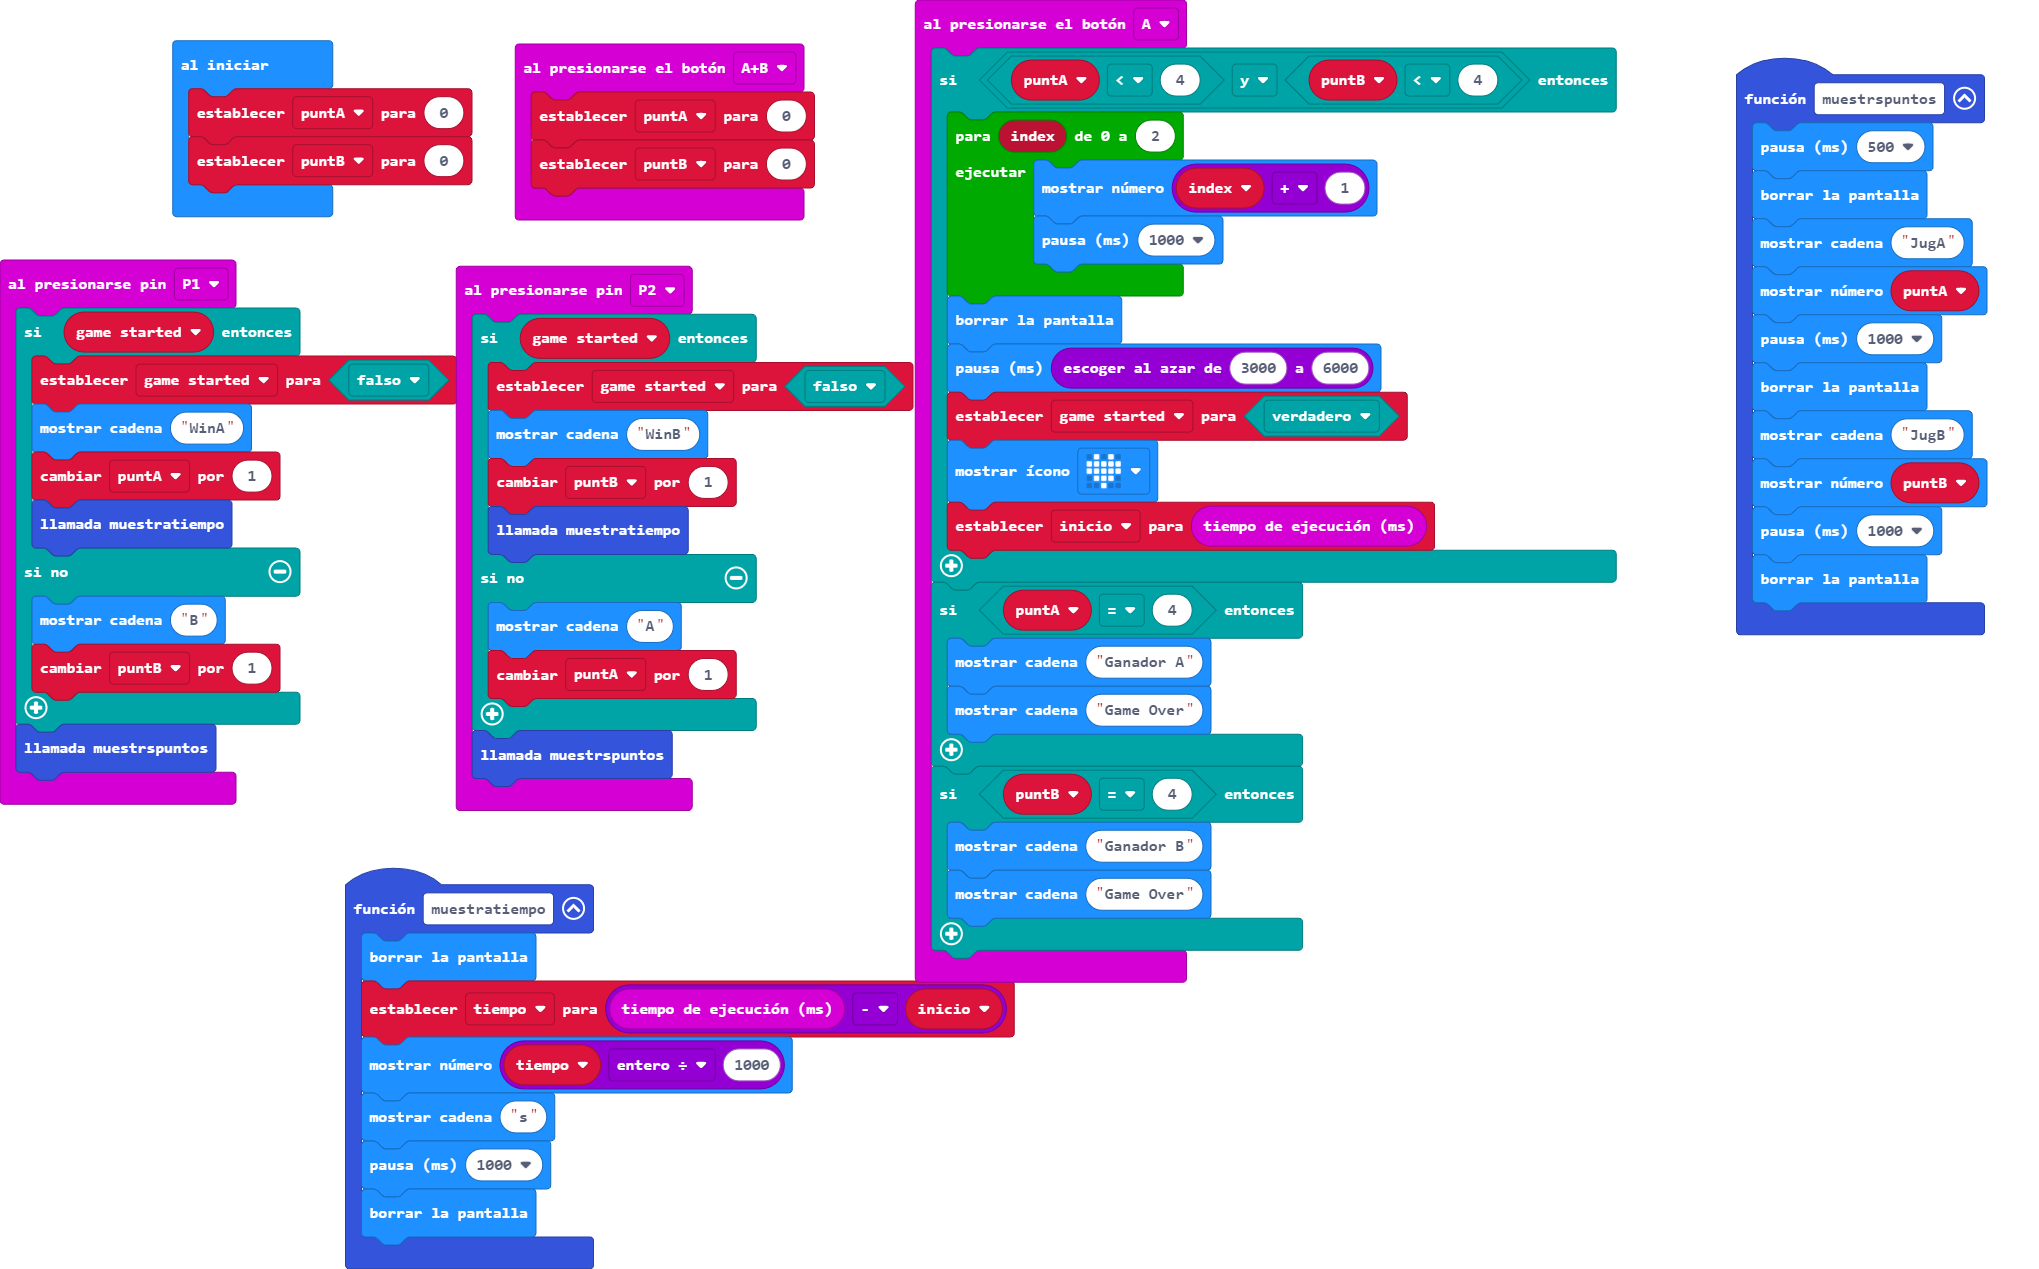
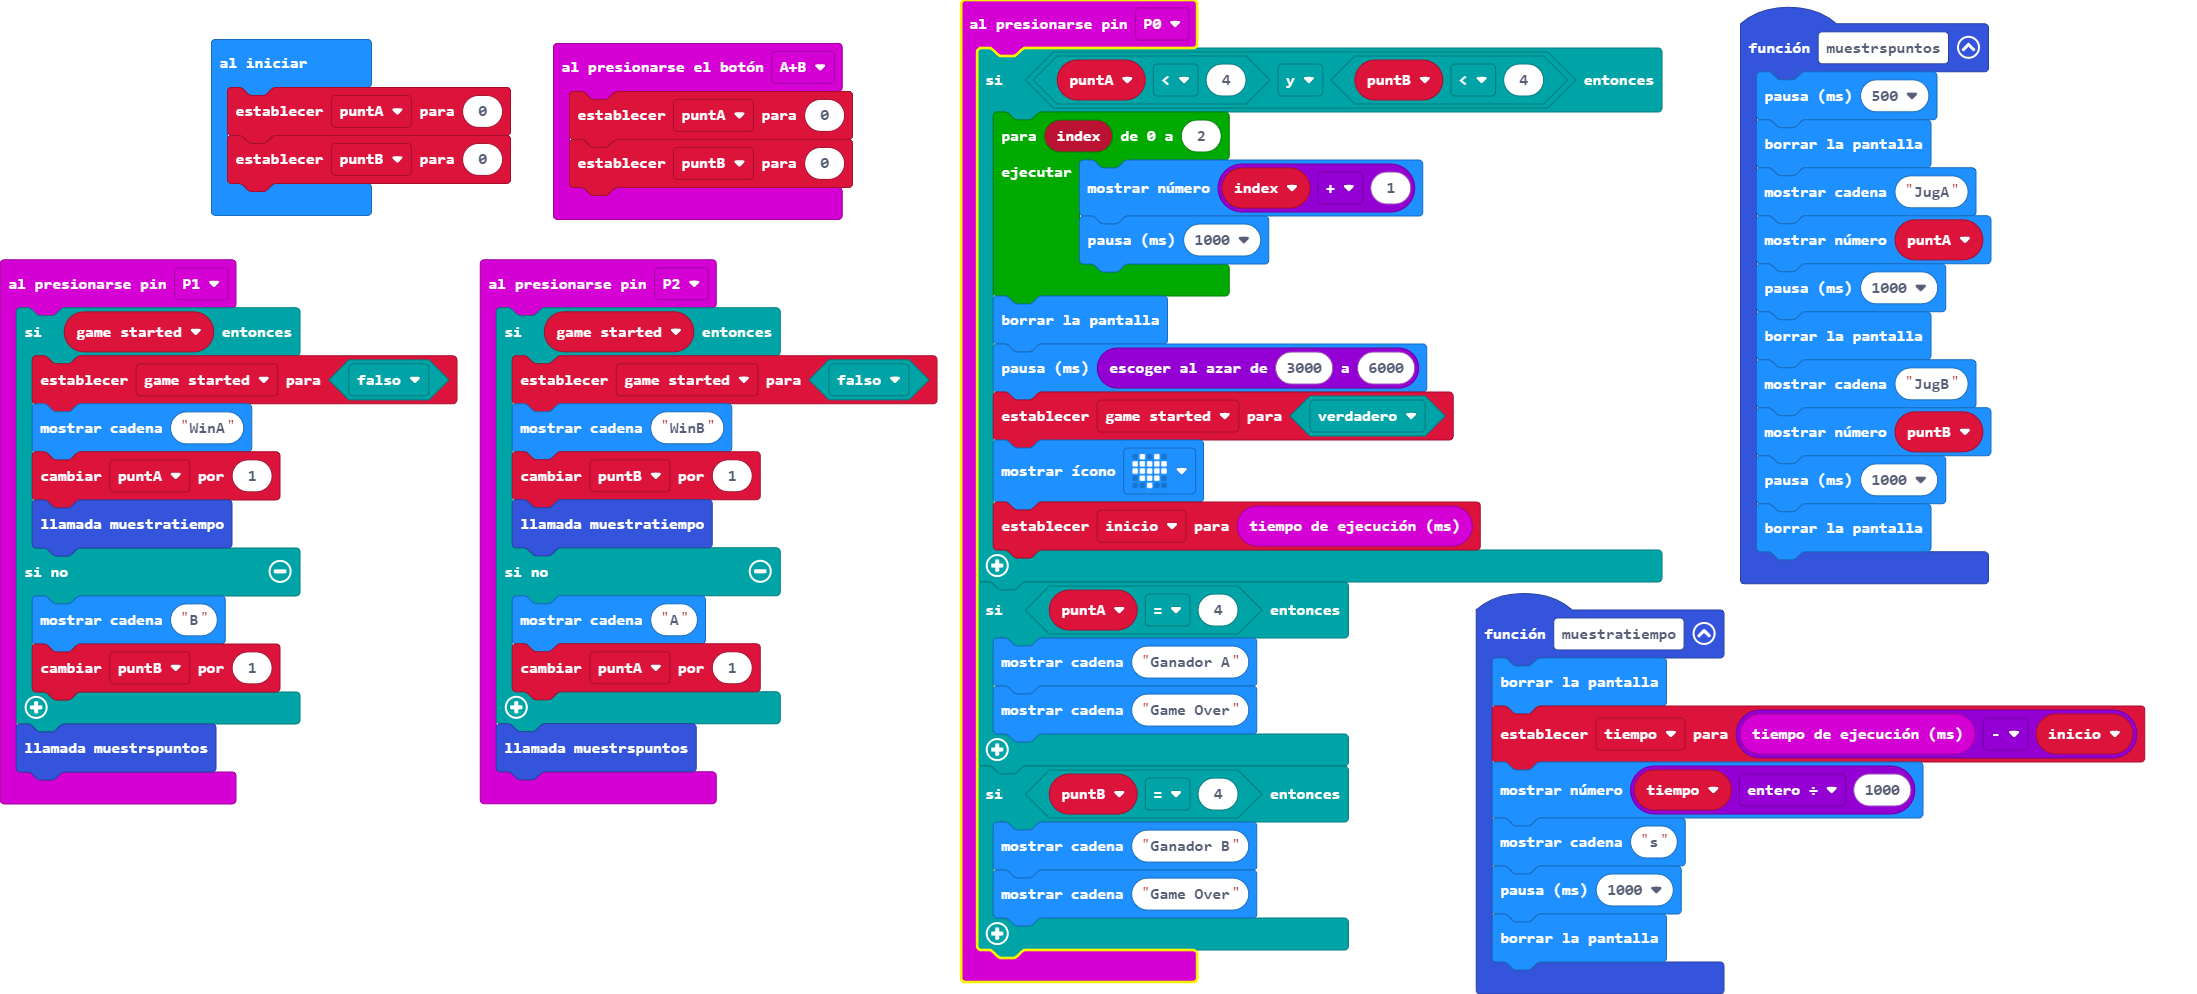
Actualizar pxt.json, main.blocks, main.ts

diff --git a/main.ts b/main.ts
@@ -1,4 +1,4 @@
-input.onButtonPressed(Button.A, function () {
+input.onPinPressed(TouchPin.P0, function () {
     if (puntA < 4 && puntB < 4) {
         for (let index = 0; index <= 2; index++) {
             basic.showNumber(index + 1)
